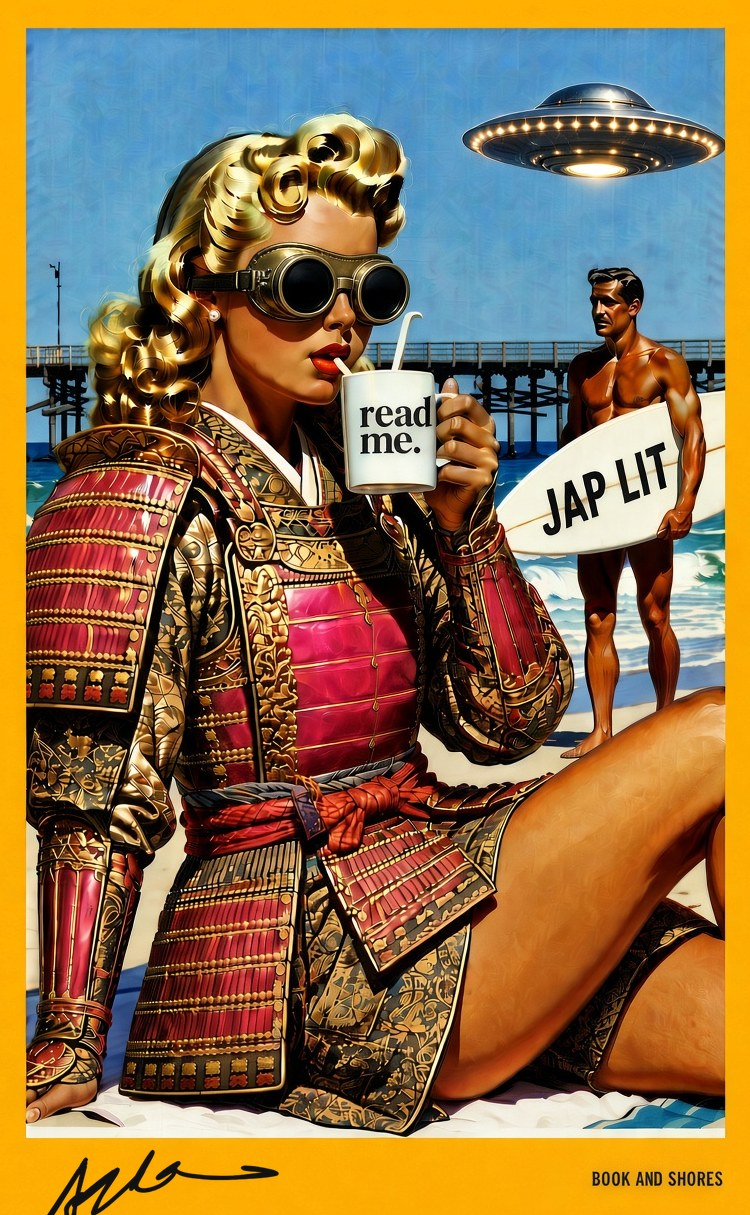
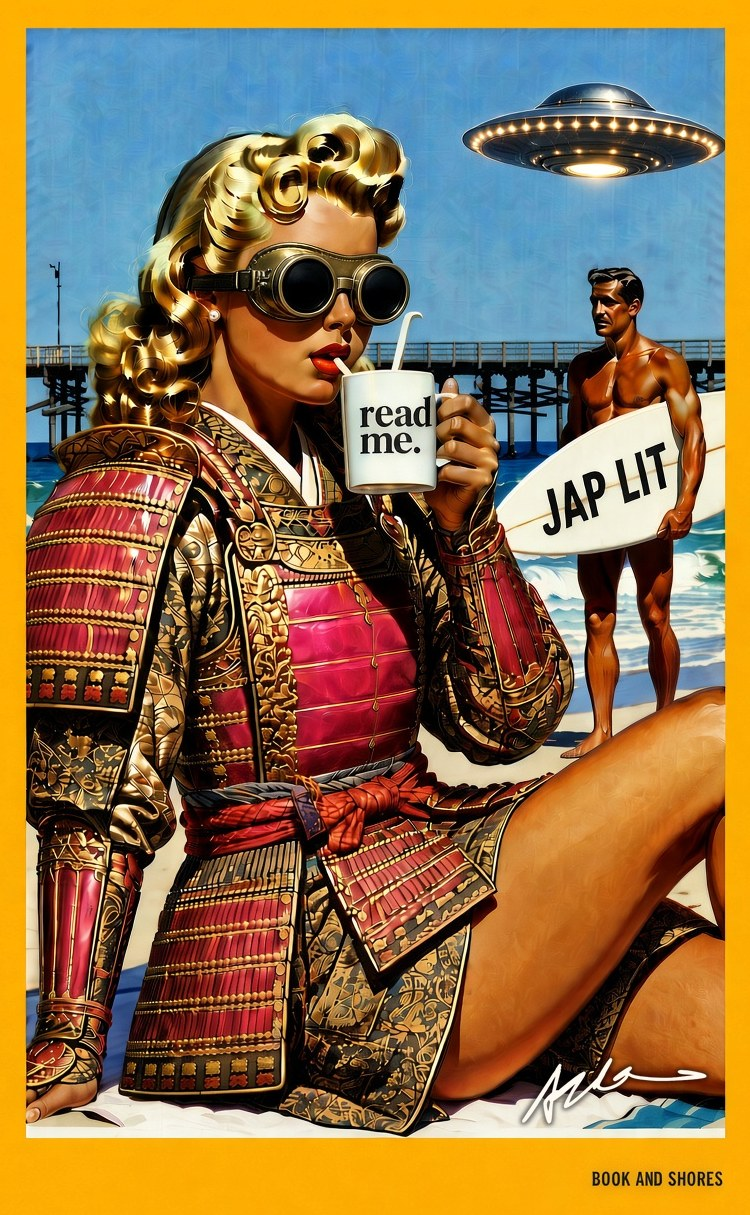
AE signature at bottom right of the Japanese Lit illustration; remove illustration credit line

Changed region(s): [[0.0613, 0.944, 0.368, 1.0], [0.6747, 0.8527, 0.9507, 0.944]]

diff --git a/index.html b/index.html
@@ -457,7 +457,7 @@
                     </ul>
                 </div>
             </div>
-            <a class="ast-feature" href="atlas.html#japanese-literature"><img src="weekly-reads-japanese-lit-illustration.jpg" width="750" height="1215" loading="lazy" alt=""><span><span class="ast-k">Now featuring</span><b>Japanese Literature</b>Our new illustration leads the Atlas this week, with the six strangest books from the collection in Weekly Reads below.</span></a>
+            <a class="ast-feature" href="atlas.html#japanese-literature"><img src="weekly-reads-japanese-lit-illustration.jpg?v=2" width="750" height="1215" loading="lazy" alt=""><span><span class="ast-k">Now featuring</span><b>Japanese Literature</b>Our new illustration leads the Atlas this week, with the six strangest books from the collection in Weekly Reads below.</span></a>
             <div class="ast-cta"><a href="atlas.html" class="btn">Open the Atlas</a><a href="license-the-atlas.html" class="btn">Claim a Pin</a></div>
         </section>
         <section id="reads" class="section">
@@ -481,7 +481,6 @@
             .wr6-layout { display: grid; grid-template-columns: minmax(0, .9fr) minmax(0, 1.1fr); gap: 2rem; align-items: start; margin-top: 1.6rem; }
             .wr6-art { margin: 0; position: sticky; top: 1rem; }
             .wr6-art img { display: block; width: 100%; height: auto; border: 0; box-shadow: none; }
-            .wr6-credit { font-family: 'IBM Plex Mono', monospace; font-weight: 500; font-size: .72rem; margin: 1.3rem 0 0; }
             .wr6-grid { display: grid; grid-template-columns: minmax(0, 1fr) minmax(0, 1fr); gap: 1.3rem 1.1rem; }
             .wr6-card { position: relative; background: #fff6e0; border: 4px solid var(--black); border-radius: 10px; padding: 1rem .9rem 1.1rem; box-shadow: 6px 6px 0 var(--black); background-image: radial-gradient(rgba(0,0,0,.09) 1.2px, transparent 1.3px); background-size: 9px 9px; }
             .wr6-card:nth-child(odd) { transform: rotate(-.6deg); } .wr6-card:nth-child(even) { transform: rotate(.6deg); }
@@ -508,9 +507,8 @@
                 <div class="wr6-layout">
                     <div>
                         <figure class="wr6-art">
-                            <img src="weekly-reads-japanese-lit-illustration.jpg" width="750" height="1215" loading="lazy" alt="Book &amp; Shores illustration: a pin-up woman in red samurai armor and aviator goggles sips from a read me. mug on the beach, a surfer with a Japanese Literature surfboard and a UFO over the pier behind her, signed AE">
+                            <img src="weekly-reads-japanese-lit-illustration.jpg?v=2" width="750" height="1215" loading="lazy" alt="Book &amp; Shores illustration: a pin-up woman in red samurai armor and aviator goggles sips from a read me. mug on the beach, a surfer with a Japanese Literature surfboard and a UFO over the pier behind her, signed AE">
                         </figure>
-                        <p class="wr6-credit">Illustrations by A. E. Goodson for Book and Shores.</p>
                     </div>
                     <div class="wr6-grid" id="weekly-grid">
                     <article class="wr6-card">

diff --git a/weekly-reads.html b/weekly-reads.html
@@ -284,7 +284,7 @@
                 <span class="wra-date"><time datetime="2026-11-21">November 21, 2026</time></span><span class="wra-date wra-new">This week</span>
                 <h3>Japanese Literature: Six Strange Ones</h3>
                 <p class="wra-links"><a href="index.html#reads">See this week on the homepage →</a> <a href="atlas.html#japanese-literature">Japanese Literature on the Atlas →</a> <span>6 picks</span></p>
-                <img class="wra-hero" src="weekly-reads-japanese-lit-illustration.jpg" width="750" height="1215" loading="lazy" alt="Book &amp; Shores illustration: a pin-up woman in red samurai armor sips from a read me. mug on the beach, a surfer and a UFO behind her, signed AE">
+                <img class="wra-hero" src="weekly-reads-japanese-lit-illustration.jpg?v=2" width="750" height="1215" loading="lazy" alt="Book &amp; Shores illustration: a pin-up woman in red samurai armor sips from a read me. mug on the beach, a surfer and a UFO behind her, signed AE">
                 <div class="wra-grid">
                     <a class="wra-b" href="book-platonic-love.html"><span class="wra-c"><img src="9780811239424.jpg" loading="lazy" alt="Platonic Love by Mieko Kanai, tr. Polly Barton"></span><span class="wra-t">Platonic Love</span><span class="wra-a">Mieko Kanai, tr. Polly Barton</span></a>
                     <a class="wra-b" href="book-caring-for-a-corpse.html"><span class="wra-c"><img src="9798855427875.jpg" loading="lazy" alt="Caring for a Corpse by Harumi Miura, tr. Tristan Hill"></span><span class="wra-t">Caring for a Corpse</span><span class="wra-a">Harumi Miura, tr. Tristan Hill</span></a>

diff --git a/atlas.html b/atlas.html
@@ -67,7 +67,7 @@
         </style>
         <section class="jl-feature" id="japanese-literature" aria-labelledby="jl-title">
             <div class="jl-card">
-                <img src="weekly-reads-japanese-lit-illustration.jpg" width="750" height="1215" alt="Book &amp; Shores illustration: a pin-up woman in red samurai armor and goggles sips from a read me. mug on the beach, a surfer and a UFO over the pier behind her, signed AE">
+                <img src="weekly-reads-japanese-lit-illustration.jpg?v=2" width="750" height="1215" alt="Book &amp; Shores illustration: a pin-up woman in red samurai armor and goggles sips from a read me. mug on the beach, a surfer and a UFO over the pier behind her, signed AE">
                 <div>
                     <p class="eyebrow">Now featuring</p>
                     <h2 id="jl-title">Japanese Literature</h2>
